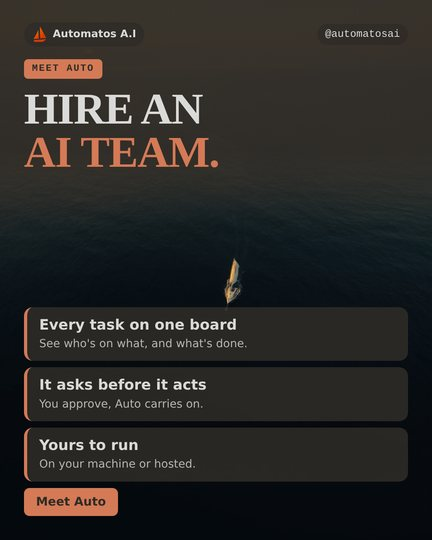
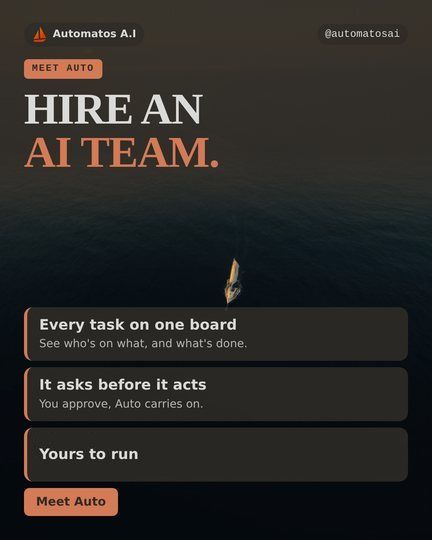
fix(renders): cut the letterhead address and the hosted lines; drop the wrong-day Web Summit card
The Automatos letterhead in owner-letter, invoice and weekly-report carried an
address fragment; public copy gives no street address. The developer card said
the hosted edition is at automatos.app and the WED social card said 'on your
machine or hosted'; hosted opens as a beta in November. Those lines are cut
from the images (nothing added). The SAT slot's Web Summit card said 9 Nov;
it is replaced by the real Harbourline cafe-offer render.

Changed region(s): [[0.0903, 0.8, 0.331, 0.8889], [0.3611, 0.8296, 0.4514, 0.8889]]

diff --git a/src/components/demos/data.ts b/src/components/demos/data.ts
@@ -129,14 +129,17 @@ export const REQUESTS: { text: string; agent: number; reply: string }[] = [
 /*
   One week of posts across two workspaces' brands: Harbourline (a coffee
   roaster) and Automatos. Each slot is a real 4:5 render from the platform
-  (Socials, Sept–Oct 2026), resized to 432×540.
+  (Socials, Sept–Oct 2026), resized to 432×540; SAT reuses the 360×450 café
+  render from the home page. On 19 Oct 2026 the WED card's "On your machine or
+  hosted." line was cut from the image (hosted opens as a beta in November), and
+  the Web Summit card left the week (it gave the wrong day).
 */
 export const SLOTS: { day: string; src: string; alt: string }[] = [
   { day: "TUE", src: "/images/socials/tue-flat-white-review.jpg", alt: "Harbourline review card over a coffee photo: “Best flat white in town, and the beans are roasted down the road.”" },
   { day: "WED", src: "/images/socials/wed-hire-an-ai-team.jpg", alt: "Automatos highlights card: Hire an AI team." },
   { day: "THU", src: "/images/socials/thu-september-sales.jpg", alt: "Harbourline stat card: 46% of all retail bags sold in September were Harbour Blend." },
   { day: "FRI", src: "/images/socials/fri-grassy-to-chocolatey.jpg", alt: "Harbourline before-and-after card of roasted beans: From grassy to chocolatey." },
-  { day: "SAT", src: "/images/socials/sat-web-summit.jpg", alt: "Automatos announcement card: Meet us at Web Summit." },
+  { day: "SAT", src: "/images/use-cases/made/cafe-offer.jpg", alt: "Harbourline offer card for new café accounts: £16/kg for the first 5 kg of Harbour Blend." },
   { day: "SUN", src: "/images/socials/sun-team-never-sleeps.jpg", alt: "Automatos photo card: Your team never sleeps." },
   { day: "MON", src: "/images/socials/mon-house-blend-offer.jpg", alt: "Harbourline offer card: 20% off house blend, 1kg bags." },
 ];

diff --git a/src/components/sections/home/businesses.ts b/src/components/sections/home/businesses.ts
@@ -4,6 +4,10 @@ import { GITHUB_URL } from "@/lib/links";
   "Who it's for": the six businesses from the v1 Industries section, copy
   carried over from the redesign branch. Portraits are AI illustrations (the
   card says so); each `made` is a real render from Studio (c1 test workspace).
+  19 Oct 2026: two renders were trimmed, not re-rendered: owner-letter.jpg lost
+  its letterhead address line, and developer-apache.jpg lost "Prefer not to run
+  it yourself? The hosted edition is at automatos.app." (hosted opens as a beta
+  in November). Re-render both in Studio to replace them.
 */
 export type Business = {
   id: string;

diff --git a/src/components/demos/kitRenders.ts b/src/components/demos/kitRenders.ts
@@ -2,6 +2,9 @@
   Real page-1 renders from Studio, per brand kit (c1 test workspace).
   To add a kit: render the same document types in it, crop page 1 to
   400×520 into public/images/documents/<kit>/, and add an entry here.
+  19 Oct 2026: the address line was cut from the Automatos letterhead in
+  invoice.jpg and weekly-report.jpg (public copy gives no street address);
+  re-render with the brand kit's address empty to replace them.
 */
 export type KitRender = {
   name: string;
